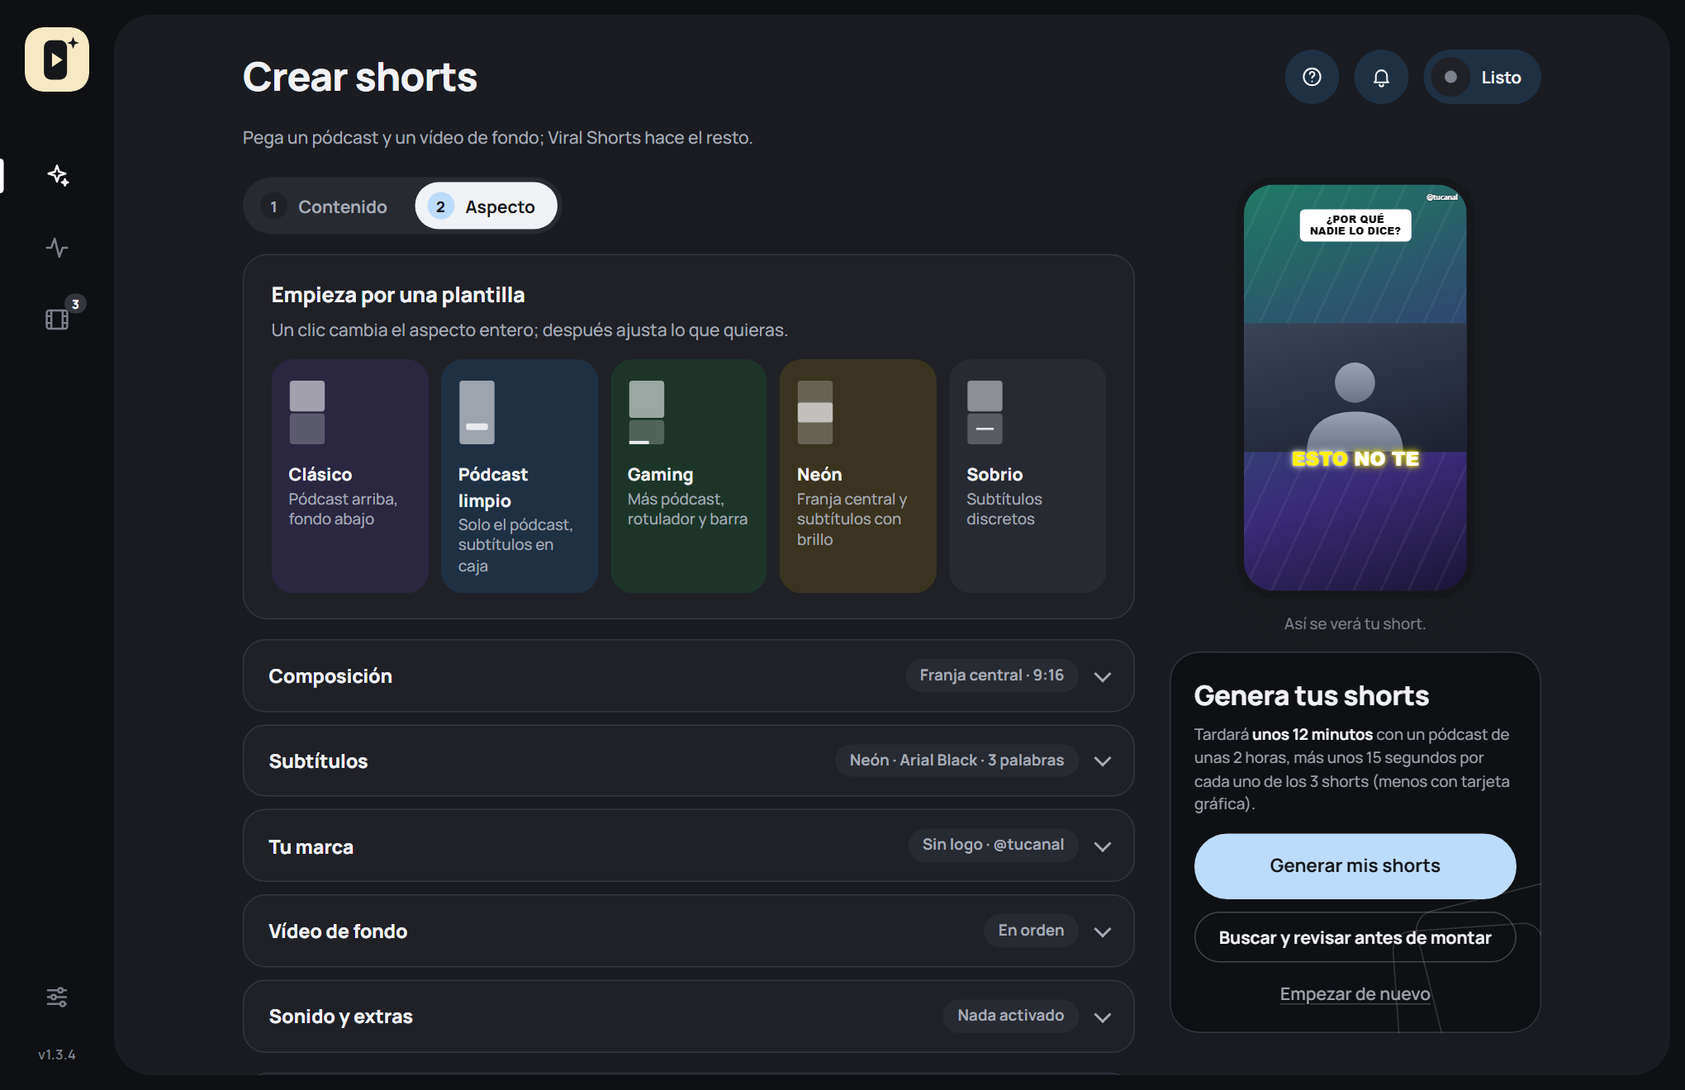
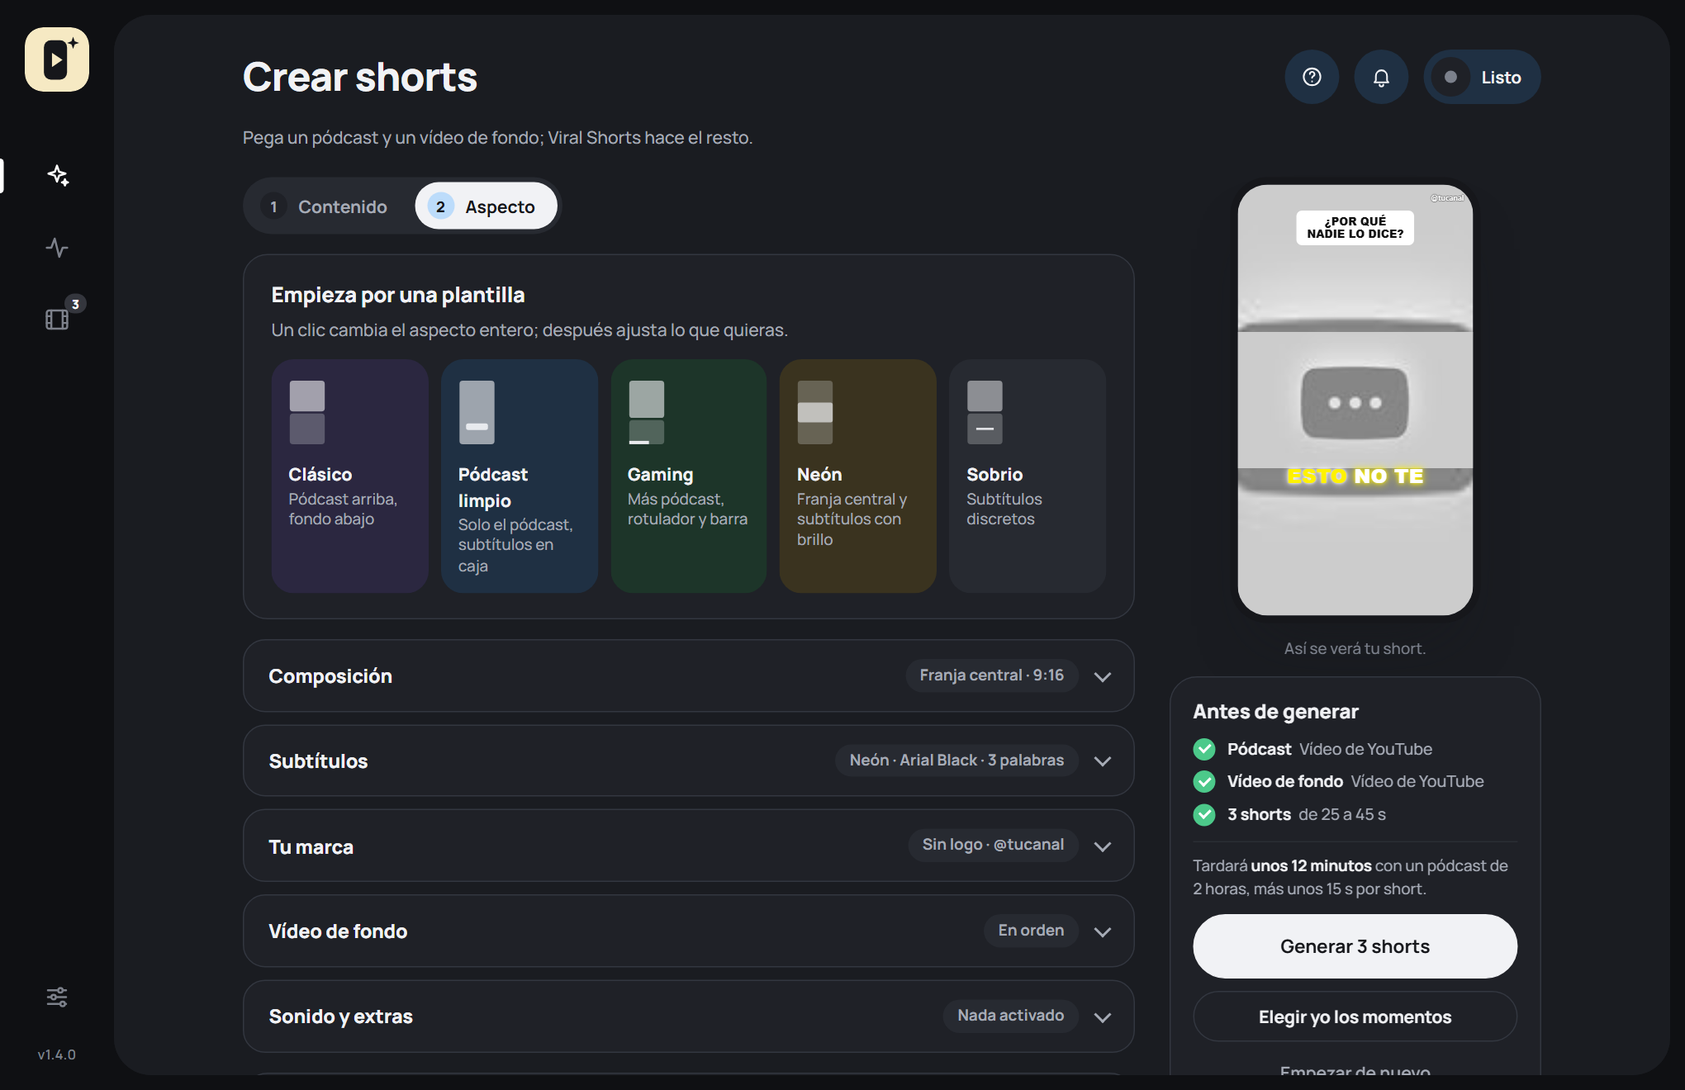
Panel de generar como resumen y opciones principales mas claras (1.4.1)
- El panel de generar lista lo que falta y lo que va a salir; el boton dice
  "Generar N shorts". Sin la tarjeta negra con adornos.
- "Que quieres obtener": una pregunta por fila con todas las opciones visibles.
- "Elegir yo los momentos" en vez de "Buscar y revisar antes de montar".

Changed region(s): [[0.7103, 0.1553, 0.9265, 0.9939]]

diff --git a/web/index.html b/web/index.html
@@ -47,9 +47,6 @@
   --bad-soft: #fdecec;
   --info: #2a6fc9;
   --info-soft: #e8f1fc;
-  --cta: #1b1c20;
-  --cta-text: #ffffff;
-  --cta-mute: #b9bcc5;
   --shadow: 0 1px 2px rgba(22,23,27,.05), 0 14px 30px -22px rgba(22,23,27,.35);
   --ui: "Manrope", "Segoe UI Variable Text", "Segoe UI", system-ui, sans-serif;
   --display: "Manrope", "Segoe UI Variable Display", "Segoe UI", system-ui, sans-serif;
@@ -83,9 +80,6 @@
     --bad-soft: #3a2224;
     --info: #78b4ff;
     --info-soft: #1f2d3e;
-    --cta: #0f1013;
-    --cta-text: #f1f2f5;
-    --cta-mute: #9da1ab;
     --shadow: 0 14px 30px -22px rgba(0,0,0,.8);
   }
 }
@@ -308,38 +302,26 @@ select.pill { width: auto; border-radius: 99px; background-color: var(--surf); b
 .choice:has(input:checked) em { color: color-mix(in srgb, var(--ink-text) 70%, transparent); }
 .choice:has(input:focus-visible) { outline: 2px solid var(--ink); outline-offset: 2px; }
 
-/* "Que quieres obtener": tres fichas de color con el valor grande, y las
-   opciones como pastillas pequenas debajo (como 1H / 24H / 1W). */
-.tiles { display: grid; grid-template-columns: repeat(3, minmax(0, 1fr)); gap: 14px; }
-.tile { position: relative; border-radius: var(--r); padding: 18px 18px 16px; min-height: 162px; display: flex; flex-direction: column; }
-.tile.tint-lilac { background: var(--lilac); }
-.tile.tint-mint { background: var(--mint); }
-.tile.tint-butter { background: var(--butter); }
-.tile-k { font-weight: 700; color: var(--mute); font-size: 13px; }
-.tile-v { font: 800 26px/1.15 var(--display); letter-spacing: -.02em; margin: 6px 0 auto; min-height: 30px; }
-.tile .seg { display: flex; gap: 2px; flex-wrap: nowrap; margin-top: 14px; }
-.tile .choice { position: static; padding: 4px 9px; border-radius: 99px; background: transparent; }
-.tile .choice b { font-size: 12.5px; color: var(--mute); }
-.tile .choice em { display: none; }
-.tile .choice input { position: absolute; width: 1px; height: 1px; inset: auto; }
-.tile .choice:hover { border-color: transparent; background: rgba(255,255,255,.5); }
-.tile .choice:has(input:checked) { background: var(--surf); color: var(--text); box-shadow: var(--shadow); }
-.tile .choice:has(input:checked) b { color: var(--text); }
-/* El valor grande es el texto de la opcion marcada. */
-.tile .choice:has(input:checked) em { display: block; position: absolute; left: 18px; top: 40px; right: 18px; font: 800 26px/1.15 var(--display); letter-spacing: -.02em; color: var(--text); pointer-events: none; }
-.tile .hint { margin-top: 8px; color: var(--mute); }
+/* "Que quieres obtener": una pregunta por fila y todas las opciones a la vista,
+   con su detalle, para poder compararlas sin abrir nada. */
+.choices-card { padding-bottom: 8px; }
+.choices-card > h2 { margin-bottom: 4px; }
+.q-row { display: grid; grid-template-columns: 230px minmax(0, 1fr); gap: 10px 24px; align-items: center; padding: 16px 0; border-top: 1px solid var(--line-soft); }
+.choices-card > h2 + .q-row { border-top: 0; }
+.q-text b { display: block; font-size: 14.5px; }
+.q-text span { display: block; color: var(--mute); font-size: 12.5px; line-height: 1.4; margin-top: 2px; }
+.q-ctrl.seg { gap: 6px; }
+.q-ctrl select { max-width: 300px; }
 
 /* contador */
-.stepper { display: inline-flex; align-items: center; gap: 6px; }
-.stepper button { width: 34px; height: 34px; border-radius: 50%; border: 0; background: var(--surf); font-size: 18px; line-height: 1; color: var(--text); box-shadow: var(--shadow); }
+.stepper { display: inline-flex; align-items: center; gap: 4px; padding: 4px; border-radius: 99px; background: var(--raise); }
+.stepper button { width: 34px; height: 34px; border-radius: 50%; border: 0; background: var(--surf); font-size: 18px; line-height: 1; color: var(--text); box-shadow: 0 1px 2px rgba(22,23,27,.08); }
 .stepper button:hover { background: var(--ink); color: var(--ink-text); }
-.stepper input { width: 64px; text-align: center; border: 0; background: transparent; border-radius: 10px; padding: 0; font: 800 34px/1.1 var(--display); letter-spacing: -.02em; -moz-appearance: textfield; appearance: textfield; }
+.stepper input { width: 48px; text-align: center; border: 0; background: transparent; padding: 0; font: 800 20px/1 var(--display); -moz-appearance: textfield; appearance: textfield; }
 .stepper input:hover { border: 0; }
 .stepper input::-webkit-outer-spin-button, .stepper input::-webkit-inner-spin-button { -webkit-appearance: none; margin: 0; }
 .count-row { display: flex; align-items: center; gap: 12px; }
 .count-row span { color: var(--mute); }
-.tile .stepper { margin: 4px 0 auto -6px; }
-.tile #clips-unit { font-size: 12.5px; font-weight: 600; color: var(--mute); margin-top: 14px; }
 
 /* deslizadores */
 .slider { display: flex; align-items: center; gap: 12px; }
@@ -383,7 +365,7 @@ input[type="color"].swatch::-webkit-color-swatch { border: 0; border-radius: 50%
 .monitor { position: sticky; top: 8px; display: flex; flex-direction: column; align-items: center; gap: 12px; }
 .phone {
   /* La altura manda en vertical; en 4:5 y 1:1 el ancho se acota al del monitor. */
-  --h: clamp(200px, calc(100vh - 540px), 400px); --ar: 9 / 16; --wr: .5625;
+  --h: clamp(200px, calc(100vh - 520px), 400px); --ar: 9 / 16; --wr: .5625;
   width: min(100%, calc(var(--h) * var(--wr))); aspect-ratio: var(--ar);
   background: #16171b; border-radius: 30px; padding: 6px;
   box-shadow: 0 30px 50px -28px rgba(22,23,27,.55);
@@ -457,30 +439,27 @@ input[type="color"].swatch::-webkit-color-swatch { border: 0; border-radius: 50%
 .sub span { transition: color .12s; }
 .monitor > .hint { text-align: center; max-width: 30ch; margin: 0; }
 
-/* La tarjeta negra de generar, como la de "Earn" del resumen. */
+/* Panel de generar: dice que falta, que va a salir y cuanto tarda; el boton
+   repite lo que hace ("Generar 3 shorts"). Sin adornos: es una herramienta. */
 .launch {
-  position: relative; overflow: hidden; isolation: isolate;
   width: 100%; display: flex; flex-direction: column; gap: 10px;
-  padding: 22px 20px 18px; border-radius: 24px;
-  background: var(--cta); color: var(--cta-text);
+  padding: 16px 18px 12px; border-radius: 22px;
+  background: var(--surf); border: 1px solid var(--line);
 }
-.launch::before, .launch::after {
-  content: ""; position: absolute; z-index: -1; width: 120px; height: 150px; right: -34px; bottom: -40px;
-  border: 1.5px solid rgba(255,255,255,.16); border-radius: 16px; transform: rotate(-14deg);
-}
-.launch::after { right: -6px; bottom: -66px; transform: rotate(-4deg); }
-.launch h3 { font: 800 22px/1.2 var(--display); letter-spacing: -.01em; }
-.launch .eta { color: var(--cta-mute); font-size: 12.5px; text-align: left; margin: 0 0 4px; }
-.launch .eta b { color: var(--cta-text); font-weight: 700; }
+.launch h3 { font: 800 16px var(--display); }
+.checklist { list-style: none; margin: 0; padding: 0; display: flex; flex-direction: column; gap: 7px; }
+.checklist li { display: flex; align-items: center; gap: 10px; }
+.checklist i { width: 18px; height: 18px; flex: none; border-radius: 50%; border: 2px dashed var(--faint); position: relative; }
+.checklist li.ok i { border: 0; background: var(--ok); }
+.checklist li.ok i::after { content: ""; position: absolute; left: 5px; top: 4.5px; width: 7px; height: 4px; border: solid #fff; border-width: 0 0 2px 2px; transform: rotate(-45deg); }
+.checklist span { min-width: 0; flex: 1; display: flex; align-items: baseline; gap: 6px; font-size: 13px; }
+.checklist b { flex: none; }
+.checklist em { min-width: 0; font-style: normal; color: var(--mute); overflow: hidden; text-overflow: ellipsis; white-space: nowrap; }
+.checklist li:not(.ok) em { color: var(--bad); }
+.launch .eta { color: var(--mute); font-size: 12.5px; margin: 2px 0 0; padding-top: 10px; border-top: 1px solid var(--line-soft); }
+.launch .eta b { color: var(--text); }
 .launch .btn { width: 100%; }
-.launch .btn.primary { background: var(--sky-hi); border-color: var(--sky-hi); color: #16171b; }
-.launch .btn.primary:hover:not(:disabled) { background: #d4e8fc; border-color: #d4e8fc; }
-.launch .btn:not(.primary) { background: transparent; color: var(--cta-text); border-color: rgba(255,255,255,.22); }
-.launch .btn:not(.primary):hover:not(:disabled) { border-color: rgba(255,255,255,.5); }
 .launch-sub { display: flex; justify-content: center; }
-.launch .link { color: var(--cta-mute); }
-.launch .link:hover:not(:disabled) { color: var(--cta-text); }
-@media (prefers-color-scheme: dark) { .launch { box-shadow: inset 0 0 0 1px var(--line); } }
 
 /* ---------------------------------------------------------------- en curso */
 .empty {
@@ -684,7 +663,7 @@ body.modal-open .main { overflow: hidden; }
 @media (max-width: 1080px) {
   .create { grid-template-columns: minmax(0, 1fr) 264px; gap: 22px; }
   .page { padding: 22px 24px 48px; }
-  .tiles { grid-template-columns: repeat(2, minmax(0, 1fr)); }
+  .q-row { grid-template-columns: minmax(0, 1fr); }
 }
 @media (max-width: 760px) {
   .app { grid-template-columns: 68px minmax(0, 1fr); }
@@ -700,9 +679,8 @@ body.modal-open .main { overflow: hidden; }
 }
 @media (max-width: 560px) {
   .page { padding: 18px 16px 40px; }
-  .fields, .tiles { grid-template-columns: minmax(0, 1fr); }
+  .fields { grid-template-columns: minmax(0, 1fr); }
   .seg { grid-template-columns: 1fr; }
-  .tile .seg { display: flex; }
   .view-head { flex-direction: column; align-items: flex-start; }
   .topbar h1 { font-size: 26px; }
 }
@@ -819,44 +797,46 @@ body.modal-open .main { overflow: hidden; }
             </section>
             </div>
 
-              <div class="section-title">
+              <section class="card choices-card">
                 <h2>Qué quieres obtener</h2>
-                <select id="language" class="pill" aria-label="Idioma del pódcast">
-                  <option value="es" selected>En español</option>
-                  <option value="en">En inglés</option>
-                  <option value="auto">Detectar el idioma</option>
-                </select>
-              </div>
-              <div class="tiles">
-                <section class="tile tint-lilac">
-                  <span class="tile-k">Cuántos shorts</span>
-                  <div class="stepper">
-                    <button type="button" id="clips-down" aria-label="Uno menos">−</button>
-                    <input type="number" id="clips" min="1" max="20" value="3" inputmode="numeric" aria-label="Número de shorts">
-                    <button type="button" id="clips-up" aria-label="Uno más">+</button>
+                <div class="q-row">
+                  <div class="q-text"><b>¿Cuántos shorts?</b><span>Se eligen los mejores momentos del pódcast.</span></div>
+                  <div class="q-ctrl count-row">
+                    <div class="stepper">
+                      <button type="button" id="clips-down" aria-label="Uno menos">−</button>
+                      <input type="number" id="clips" min="1" max="20" value="3" inputmode="numeric" aria-label="Número de shorts">
+                      <button type="button" id="clips-up" aria-label="Uno más">+</button>
+                    </div>
+                    <span id="clips-unit">shorts del mismo pódcast</span>
                   </div>
-                  <span id="clips-unit">shorts del mismo pódcast</span>
-                </section>
-                <section class="tile tint-mint">
-                  <span class="tile-k">Duración de cada uno</span>
-                  <span class="tile-v" aria-hidden="true"></span>
-                  <div class="seg" role="radiogroup" aria-label="Duración de cada short">
-                    <label class="choice"><input type="radio" name="length" value="short"><b>Corto</b><em>15–30 s</em></label>
-                    <label class="choice"><input type="radio" name="length" value="normal" checked><b>Normal</b><em>25–45 s</em></label>
-                    <label class="choice"><input type="radio" name="length" value="long"><b>Largo</b><em>45–60 s</em></label>
+                </div>
+                <div class="q-row">
+                  <div class="q-text"><b>¿Cuánto dura cada uno?</b><span>Para TikTok y Reels va bien el normal.</span></div>
+                  <div class="q-ctrl seg" role="radiogroup" aria-label="Duración de cada short">
+                    <label class="choice"><input type="radio" name="length" value="short"><b>Corto</b><em>15 a 30 s</em></label>
+                    <label class="choice"><input type="radio" name="length" value="normal" checked><b>Normal</b><em>25 a 45 s</em></label>
+                    <label class="choice"><input type="radio" name="length" value="long"><b>Largo</b><em>45 a 60 s</em></label>
                   </div>
-                </section>
-                <section class="tile tint-butter">
-                  <span class="tile-k">Calidad del análisis</span>
-                  <span class="tile-v" aria-hidden="true"></span>
-                  <div class="seg" role="radiogroup" aria-label="Calidad del análisis">
-                    <label class="choice"><input type="radio" name="preset" value="fast"><b>Rápida</b><em>~3 min</em></label>
-                    <label class="choice"><input type="radio" name="preset" value="balanced" checked><b>Media</b><em>~12 min</em></label>
-                    <label class="choice"><input type="radio" name="preset" value="best"><b>Máxima</b><em>~26 min</em></label>
+                </div>
+                <div class="q-row">
+                  <div class="q-text"><b>¿Cuánto cuidado con el texto?</b><span>Más tiempo, subtítulos más exactos. Tiempo para un pódcast de 2 h.</span></div>
+                  <div class="q-ctrl seg" role="radiogroup" aria-label="Calidad del análisis">
+                    <label class="choice"><input type="radio" name="preset" value="fast"><b>Rápido</b><em>unos 3 min</em></label>
+                    <label class="choice"><input type="radio" name="preset" value="balanced" checked><b>Equilibrado</b><em>unos 12 min</em></label>
+                    <label class="choice"><input type="radio" name="preset" value="best"><b>Máximo</b><em>unos 26 min</em></label>
                   </div>
-                </section>
-              </div>
-              <p class="hint" style="margin-top:-4px">Más calidad significa subtítulos más exactos; el tiempo es para un pódcast de unas 2 horas.</p>
+                </div>
+                <div class="q-row">
+                  <div class="q-text"><label for="language"><b>¿En qué idioma hablan?</b></label><span>Acertar el idioma mejora la transcripción.</span></div>
+                  <div class="q-ctrl">
+                    <select id="language">
+                      <option value="es" selected>Español</option>
+                      <option value="en">Inglés</option>
+                      <option value="auto">No lo sé: que lo detecte</option>
+                    </select>
+                  </div>
+                </div>
+              </section>
               <div class="model-note" id="model-note" hidden>
                 <svg class="ico"><use href="#i-download"/></svg>
                 <div class="note-body"><b id="mn-title"></b><p id="mn-text"></p><div class="bar sm" id="mn-bar" hidden><i id="mn-fill"></i></div></div>
@@ -1121,10 +1101,15 @@ body.modal-open .main { overflow: hidden; }
             <p class="hint">Así se verá tu short.</p>
 
             <div class="launch">
-              <h3>Genera tus shorts</h3>
+              <h3>Antes de generar</h3>
+              <ul class="checklist" aria-live="polite">
+                <li id="chk-pod"><i></i><span><b>Pódcast</b><em>falta</em></span></li>
+                <li id="chk-bg"><i></i><span><b>Vídeo de fondo</b><em>falta</em></span></li>
+                <li id="chk-what" class="ok"><i></i><span><b id="chk-what-t">3 shorts</b><em id="chk-what-d">de 25 a 45 s</em></span></li>
+              </ul>
               <p class="eta" id="eta"></p>
               <button type="submit" form="form" class="btn primary lg" id="run">Generar mis shorts</button>
-              <button type="button" class="btn" id="review">Buscar y revisar antes de montar</button>
+              <button type="button" class="btn" id="review" title="Te enseña los momentos que encuentra y tú marcas cuáles se montan">Elegir yo los momentos</button>
               <div class="launch-sub"><button type="button" class="link" id="clear">Empezar de nuevo</button></div>
             </div>
           </aside>
@@ -1538,10 +1523,32 @@ function presetFromFields() {
 
 function updateEta() {
   const preset = PRESETS[radio("preset")];
-  const n = +$("clips").value || 1;
   const label = preset ? preset.minutes : "un rato";
-  $("eta").innerHTML = `Tardará <b>${label}</b> con un pódcast de unas 2 horas, ` +
-                       `más unos 15 segundos por cada uno de los ${n} shorts (menos con tarjeta gráfica).`;
+  $("eta").innerHTML = `Tardará <b>${label}</b> con un pódcast de 2 horas, más unos 15 s por short.`;
+  updateSummary();
+}
+
+/** Panel de generar: qué falta, qué va a salir, y el botón dice lo que hará. */
+function updateSummary() {
+  const n = Math.max(1, +$("clips").value || 1);
+  const source = (id, row) => {
+    const value = $(id).value.trim();
+    const title = $(id + "-preview").querySelector("b").textContent;
+    $(row).classList.toggle("ok", !!value);
+    $(row).querySelector("em").textContent = !value ? "falta"
+      : (title && title !== "Buscando el título…" ? title : value.split(/[\\/]/).pop());
+  };
+  source("podcast", "chk-pod");
+  source("background", "chk-bg");
+  const length = LENGTHS[radio("length")];
+  const min = length ? length.min_duration : $("min_duration").value;
+  const max = length ? length.max_duration : $("max_duration").value;
+  $("chk-what-t").textContent = n === 1 ? "1 short" : `${n} shorts`;
+  $("chk-what-d").textContent = `de ${min} a ${max} s`;
+  // Ocupado, lo que se lance va a la cola en vez de pelearse por la carpeta de trabajo.
+  const busy = $("status").dataset.state === "running";
+  $("run").textContent = busy ? "Añadir a la cola" : (n === 1 ? "Generar 1 short" : `Generar ${n} shorts`);
+  $("review").textContent = busy ? "Añadir a la cola para revisar" : "Elegir yo los momentos";
 }
 
 // ===========================================================================
@@ -1739,6 +1746,7 @@ function refreshPreview(id) {
 
   card.classList.toggle("filled", value.length > 0);
   refreshMonitor();
+  updateSummary();
   if (!value) { box.classList.remove("on"); return; }
 
   box.classList.add("on");
@@ -1816,6 +1824,7 @@ function askTitle(id, value) {
       const label = box.querySelector("b");
       if (label.textContent === "Buscando el título…") label.textContent = "Vídeo de YouTube";
     }
+    updateSummary();
   }, 500);
 }
 
@@ -2793,12 +2802,8 @@ function setStatus(status) {
   const busy = status === "running";
   $("stop").disabled = !busy;
   $("clear").disabled = busy;
-  // Estando ocupado los botones siguen valiendo: lo que lances se pone en cola
-  // en vez de pelearse por la carpeta de trabajo.
   $("skip-row").hidden = !busy || $("queue-panel").hidden;
-  $("run").textContent = busy ? "Añadir a la cola" : "Generar mis shorts";
-  $("review").textContent = busy
-    ? "Añadir a la cola para revisar" : "Buscar y revisar antes de montar";
+  updateSummary();
   if (!busy) { $("bar").style.width = "0"; $("pct").textContent = ""; }
   if (!busy) $("live-head").classList.add("idle");
   if (status === "done") { paintSteps(STEPS.length); $("stage-label").textContent = "Terminado"; }

diff --git a/README.md b/README.md
@@ -83,9 +83,9 @@
 
 1. En **Crear**, pega el enlace del pódcast y el del vídeo de fondo.
 2. Elige cuántos shorts quieres, cuánto duran y la calidad del análisis (*Equilibrada* va bien para empezar).
-3. Pulsa **Generar mis shorts** y mira cómo avanza en **En curso**. Cuando termina, están en **Mis shorts**.
+3. Pulsa **Generar** (el botón dice cuántos: «Generar 3 shorts») y mira cómo avanza en **En curso**. Cuando termina, están en **Mis shorts**.
 
-Si prefieres decidir tú qué momentos se montan, usa **Buscar y revisar antes de montar**.
+Si prefieres decidir tú qué momentos se montan, usa **Elegir yo los momentos**.
 
 ## ¿Hace falta Claude?
 
@@ -113,6 +113,16 @@ Cualquier ajuste se puede cambiar sin tocar el YAML: `--set subtitles.style=mark
 
 Cada versión publicada tiene aquí su entrada (`install\publicar.ps1` no deja
 publicar una versión sin ella). Lo más reciente, primero.
+
+### 1.4.1 (2026-10-23)
+
+- El panel de generar ya no parece un anuncio: es una lista de lo que falta
+  (pódcast, vídeo de fondo) y de lo que va a salir, con el tiempo estimado, y el
+  botón dice lo que hace: «Generar 3 shorts».
+- Las opciones principales son preguntas claras («¿Cuántos shorts?», «¿Cuánto
+  dura cada uno?», «¿Cuánto cuidado con el texto?», «¿En qué idioma hablan?»)
+  con todas las opciones y su detalle a la vista para compararlas.
+- «Buscar y revisar antes de montar» pasa a llamarse «Elegir yo los momentos».
 
 ### 1.4.0 (2026-10-23)
 

diff --git a/docs/funcionamiento.md b/docs/funcionamiento.md
@@ -124,7 +124,7 @@ La ventana tiene una barra lateral con cuatro secciones:
   la calidad del análisis, y el estilo de los subtítulos. A la derecha, un
   **monitor 9:16** que se actualiza al momento (color, tamaño, altura, palabras
   por línea y fuente; la palabra que suena va cambiando de color) y, debajo,
-  **Generar mis shorts** o **Buscar y revisar antes de montar**.
+  **Generar N shorts** o **Elegir yo los momentos**.
 - **En curso**: las cinco fases como una lista que se va marcando, con barra de
   progreso, la cola de trabajos, el detalle técnico plegado y, si pediste revisar,
   los momentos para elegir y corregir antes de montar.
@@ -251,7 +251,7 @@ Elegir los momentos cuesta minutos (descarga, transcripción, Claude) y
 montarlos cuesta otros tantos. Antes las dos cosas iban pegadas: para descartar
 un clip flojo o corregir un título había que repetirlo **todo**.
 
-Ahora se pueden separar. **Buscar y revisar antes de montar** guarda un *plan*
+Ahora se pueden separar. **Elegir yo los momentos** guarda un *plan*
 en `work/plans/` con la selección: los candidatos —el triple de los que pediste,
 por defecto—, sus transcripciones, las palabras con sus tiempos y la
 configuración completa con la que se eligieron. Encima de eso trabaja la
